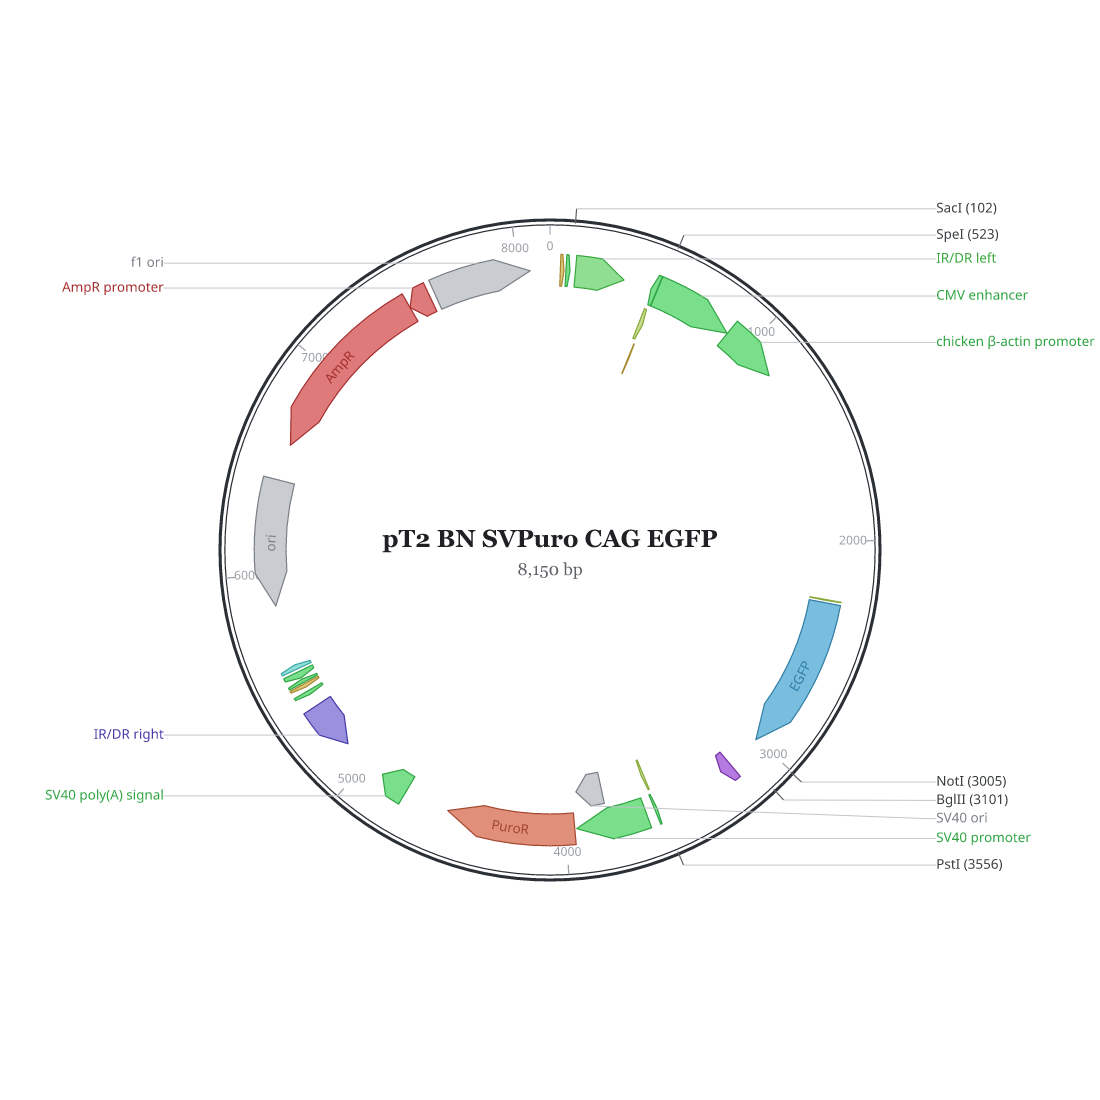
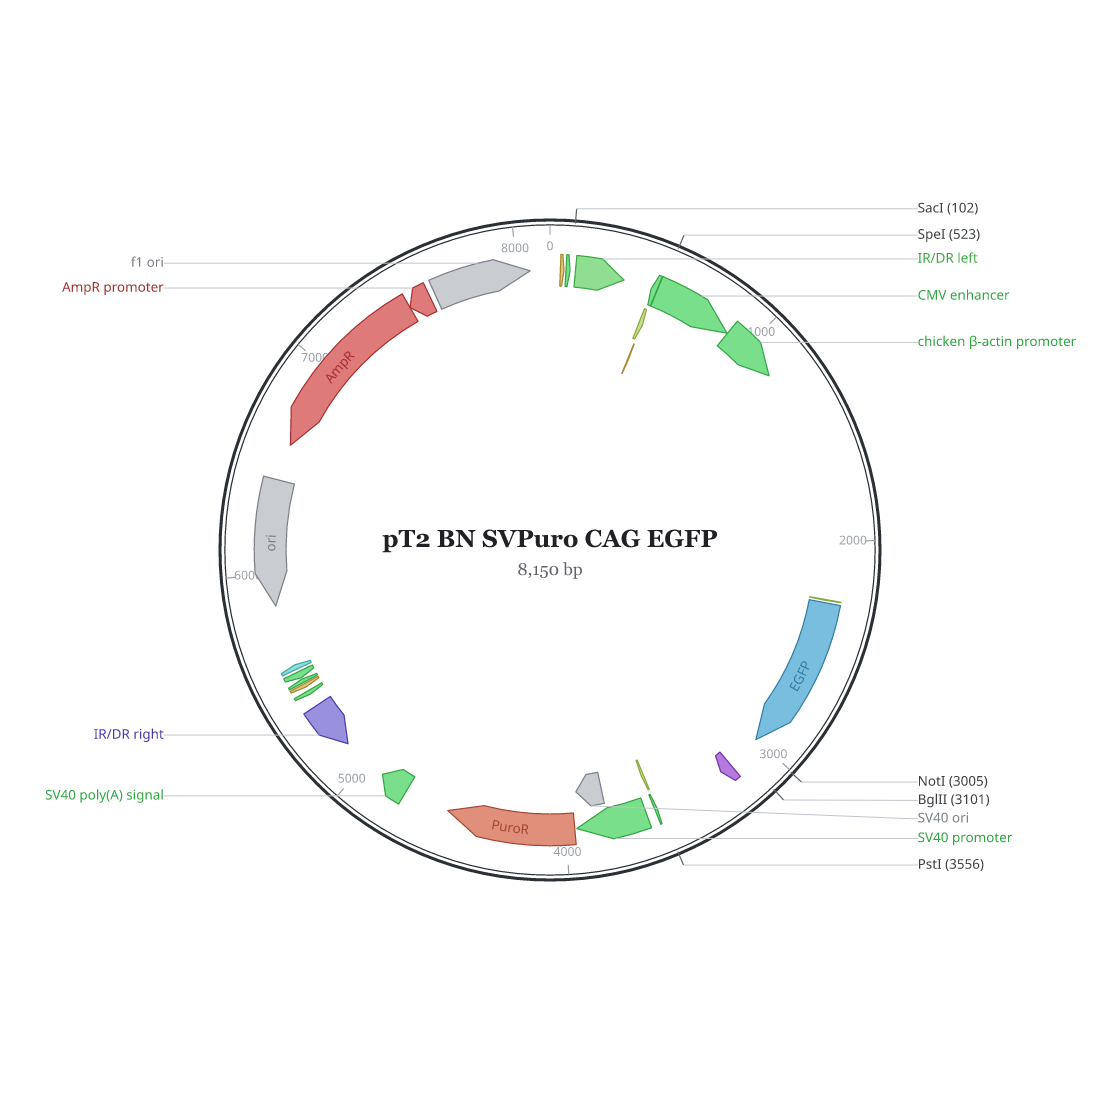
fix(render): keep external feature labels inside the canvas
layoutExternalLabels clamped only the label's anchor point, never the width of
the text hanging off it, so any name longer than the margin ran straight off
the viewBox and was cut in half — "chicken β-actin promoter" rendered as
"chicken β-actin promo". Sweeping 1000 real plasmids from the wiki database at
two sizes, 1548 of 2000 renders had at least one clipped label.

The label column is now pulled towards the ring until the widest name in that
hemisphere fits, down to a floor that keeps the leader line visible. If the
text still does not fit at that floor the name wraps onto extra lines instead
of being truncated, and the vertical packing accounts for the taller block.
Same sweep after the change: 0 clipped labels.

Adds two regression tests covering both branches — long names on either
hemisphere across four canvas sizes, and the wrap path on a canvas too narrow
for the leader to give any more ground.

Releases 0.1.3.

Claude-Session: https://claude.ai/code/session_01JQrrUJpEJsy6QCekZtcPfU

Changed region(s): [[0.8345, 0.68, 0.9273, 0.8036], [0.8345, 0.1855, 0.9273, 0.2782], [0.8345, 0.3091, 0.9891, 0.34]]

diff --git a/src/render/svg.ts b/src/render/svg.ts
@@ -292,9 +292,22 @@ function tickStep(length: number): number {
   return 10 * pow;
 }
 
+/** Horizontal breathing room kept between a label and the canvas edge. */
+const LABEL_PAD = 4;
+/** Preferred gap between the ring and the label column. */
+const LABEL_LEAD = 46;
+/** Shortest leader we will draw before wrapping the text instead. */
+const MIN_LABEL_LEAD = 10;
+
 /**
  * Place external labels outside the map with leader lines, stacking them
  * vertically within each hemisphere so they don't overlap.
+ *
+ * The label column is pulled inwards until the *text* fits the canvas, not
+ * just its anchor point — a long name like "chicken β-actin promoter" used to
+ * start at the preferred offset and run straight off the viewBox. When even
+ * the shortest leader leaves too little room, the label wraps onto extra lines
+ * and the vertical packing accounts for the taller block.
  */
 function layoutExternalLabels(
   labels: Array<{ angle: number; anchorR: number; text: string; color: string }>,
@@ -308,7 +321,10 @@ function layoutExternalLabels(
   const out: string[] = [];
   const rowH = compact ? 13 : 15;
   const fontSize = compact ? 10 : 11;
-  const labelX = { right: Math.min(size - 4, cx + radius + 46), left: Math.max(4, cx - radius - 46) };
+  const lineH = fontSize + 2;
+  // Average sans-serif glyph width; the renderer has no DOM to measure with.
+  const charW = fontSize * 0.55;
+  const textWidth = (s: string) => s.length * charW;
 
   for (const side of ['right', 'left'] as const) {
     const group = labels
@@ -318,24 +334,48 @@ function layoutExternalLabels(
         return { ...l, anchor, y: anchor[1] };
       })
       .sort((a, b) => a.y - b.y);
+    if (group.length === 0) continue;
 
-    // Push apart so consecutive rows keep at least rowH gap.
-    for (let i = 1; i < group.length; i++) {
-      if (group[i].y - group[i - 1].y < rowH) group[i].y = group[i - 1].y + rowH;
+    // Slide the column towards the ring until the widest label fits, but never
+    // closer than MIN_LABEL_LEAD so the leader line stays visible.
+    const widest = Math.max(...group.map((g) => textWidth(g.text)));
+    const x =
+      side === 'right'
+        ? Math.max(cx + radius + MIN_LABEL_LEAD, Math.min(cx + radius + LABEL_LEAD, size - LABEL_PAD - widest))
+        : Math.min(cx - radius - MIN_LABEL_LEAD, Math.max(cx - radius - LABEL_LEAD, LABEL_PAD + widest));
+
+    // Whatever room is left at that column is the hard budget for the text.
+    const avail = side === 'right' ? size - LABEL_PAD - x : x - LABEL_PAD;
+    const rows = group.map((g) => {
+      const lines = textWidth(g.text) <= avail ? [g.text] : wrapTitle(g.text, avail, fontSize);
+      return { ...g, lines, h: Math.max(rowH, lines.length * lineH) };
+    });
+
+    // Push apart so neighbouring blocks never touch, then keep the whole
+    // column inside the canvas: shift up if it overruns the bottom, and clamp
+    // at the top so a tall stack cannot be pushed off the other edge.
+    for (let i = 1; i < rows.length; i++) {
+      const minGap = (rows[i - 1].h + rows[i].h) / 2;
+      if (rows[i].y - rows[i - 1].y < minGap) rows[i].y = rows[i - 1].y + minGap;
     }
-    // Keep within canvas; if overflow, compress from the bottom.
-    const overflow = group.length ? group[group.length - 1].y - (size - 6) : 0;
-    if (overflow > 0) for (const g of group) g.y -= overflow;
+    const last = rows[rows.length - 1];
+    const overflow = last.y + last.h / 2 - (size - LABEL_PAD);
+    if (overflow > 0) for (const r of rows) r.y -= overflow;
+    const underflow = LABEL_PAD - (rows[0].y - rows[0].h / 2);
+    if (underflow > 0) for (const r of rows) r.y += underflow;
 
-    const x = side === 'right' ? labelX.right : labelX.left;
-    for (const g of group) {
-      const elbowX = side === 'right' ? x - 6 : x + 6;
+    const elbowX = side === 'right' ? x - 6 : x + 6;
+    for (const r of rows) {
       out.push(
-        `<polyline points="${g.anchor[0].toFixed(2)},${g.anchor[1].toFixed(2)} ${elbowX.toFixed(2)},${g.y.toFixed(2)} ${x.toFixed(2)},${g.y.toFixed(2)}" fill="none" stroke="#c0c4c9" stroke-width="0.8"/>`
+        `<polyline points="${r.anchor[0].toFixed(2)},${r.anchor[1].toFixed(2)} ${elbowX.toFixed(2)},${r.y.toFixed(2)} ${x.toFixed(2)},${r.y.toFixed(2)}" fill="none" stroke="#c0c4c9" stroke-width="0.8"/>`
       );
-      out.push(
-        `<text x="${x.toFixed(2)}" y="${(g.y + 3).toFixed(2)}" font-size="${fontSize}" fill="${g.color}" text-anchor="${side === 'right' ? 'start' : 'end'}" font-family="sans-serif">${esc(g.text)}</text>`
-      );
+      // Centre a wrapped block on the leader so the line meets its middle.
+      const top = r.y - ((r.lines.length - 1) * lineH) / 2;
+      r.lines.forEach((lineText, i) => {
+        out.push(
+          `<text x="${x.toFixed(2)}" y="${(top + i * lineH + 3).toFixed(2)}" font-size="${fontSize}" fill="${r.color}" text-anchor="${side === 'right' ? 'start' : 'end'}" font-family="sans-serif">${esc(lineText)}</text>`
+        );
+      });
     }
   }
   return out;

diff --git a/test/render.test.ts b/test/render.test.ts
@@ -141,6 +141,61 @@ describe('SVG rendering', () => {
     }
   });
 
+  /**
+   * Estimated horizontal extent of every external (leader-line) label. These
+   * are the only texts anchored 'start'/'end'; ruler and title texts are
+   * centred and stay well inside the map.
+   */
+  const externalLabelExtents = (svg: string) =>
+    [
+      ...svg.matchAll(
+        /<text x="([-\d.]+)" y="[-\d.]+" font-size="([\d.]+)"[^>]*text-anchor="(start|end)"[^>]*>([^<]*)<\/text>/g
+      ),
+    ].map(([, xs, fs, anchor, text]) => {
+      const x = Number(xs);
+      const w = text.length * Number(fs) * 0.55;
+      return anchor === 'start' ? { text, left: x, right: x + w } : { text, left: x - w, right: x };
+    });
+
+  it('keeps long external labels inside the canvas', () => {
+    // Names long enough that the label column has to give ground, on both
+    // hemispheres so the left and right branches are both exercised.
+    const longNames = {
+      ...record,
+      features: [
+        { name: 'chicken β-actin promoter', type: 'promoter', start: 60, end: 90, strand: 1 as const },
+        { name: 'woodchuck hepatitis post-transcriptional regulatory element', start: 500, end: 530, strand: 1 as const },
+        { name: 'bovine growth hormone polyadenylation signal', start: 1100, end: 1130, strand: -1 as const },
+        { name: 'internal ribosome entry site from EMCV', start: 1600, end: 1630, strand: -1 as const },
+      ],
+    };
+
+    for (const size of [500, 640, 800, 1000]) {
+      const labels = externalLabelExtents(renderPlasmidSVG(longNames, { size }));
+      expect(labels.length).toBeGreaterThan(0);
+      for (const l of labels) {
+        expect(l.left, `"${l.text}" overflows left at size ${size}`).toBeGreaterThanOrEqual(-0.5);
+        expect(l.right, `"${l.text}" overflows right at size ${size}`).toBeLessThanOrEqual(size + 0.5);
+      }
+    }
+  });
+
+  it('wraps an external label rather than truncating it', () => {
+    const name = 'woodchuck hepatitis post-transcriptional regulatory element';
+    // A small canvas leaves too little room even at the shortest leader, so
+    // the label has to wrap; no part of the name may be dropped.
+    const svg = renderPlasmidSVG(
+      { ...record, features: [{ name, start: 500, end: 530, strand: 1 as const }] },
+      { size: 500 }
+    );
+    const parts = externalLabelExtents(svg).map((l) => l.text);
+    expect(parts.length).toBeGreaterThan(1);
+    // A break may land on a space or, for a word wider than the whole column,
+    // mid-token — so compare ignoring whitespace. The point is that every
+    // character survives rather than being cut off at the canvas edge.
+    expect(parts.join('').replace(/\s+/g, '')).toBe(name.replace(/\s+/g, ''));
+  });
+
   it('renders each feature as a colored path', () => {
     const svg = renderPlasmidSVG(record);
     const paths = svg.match(/<path /g) ?? [];
